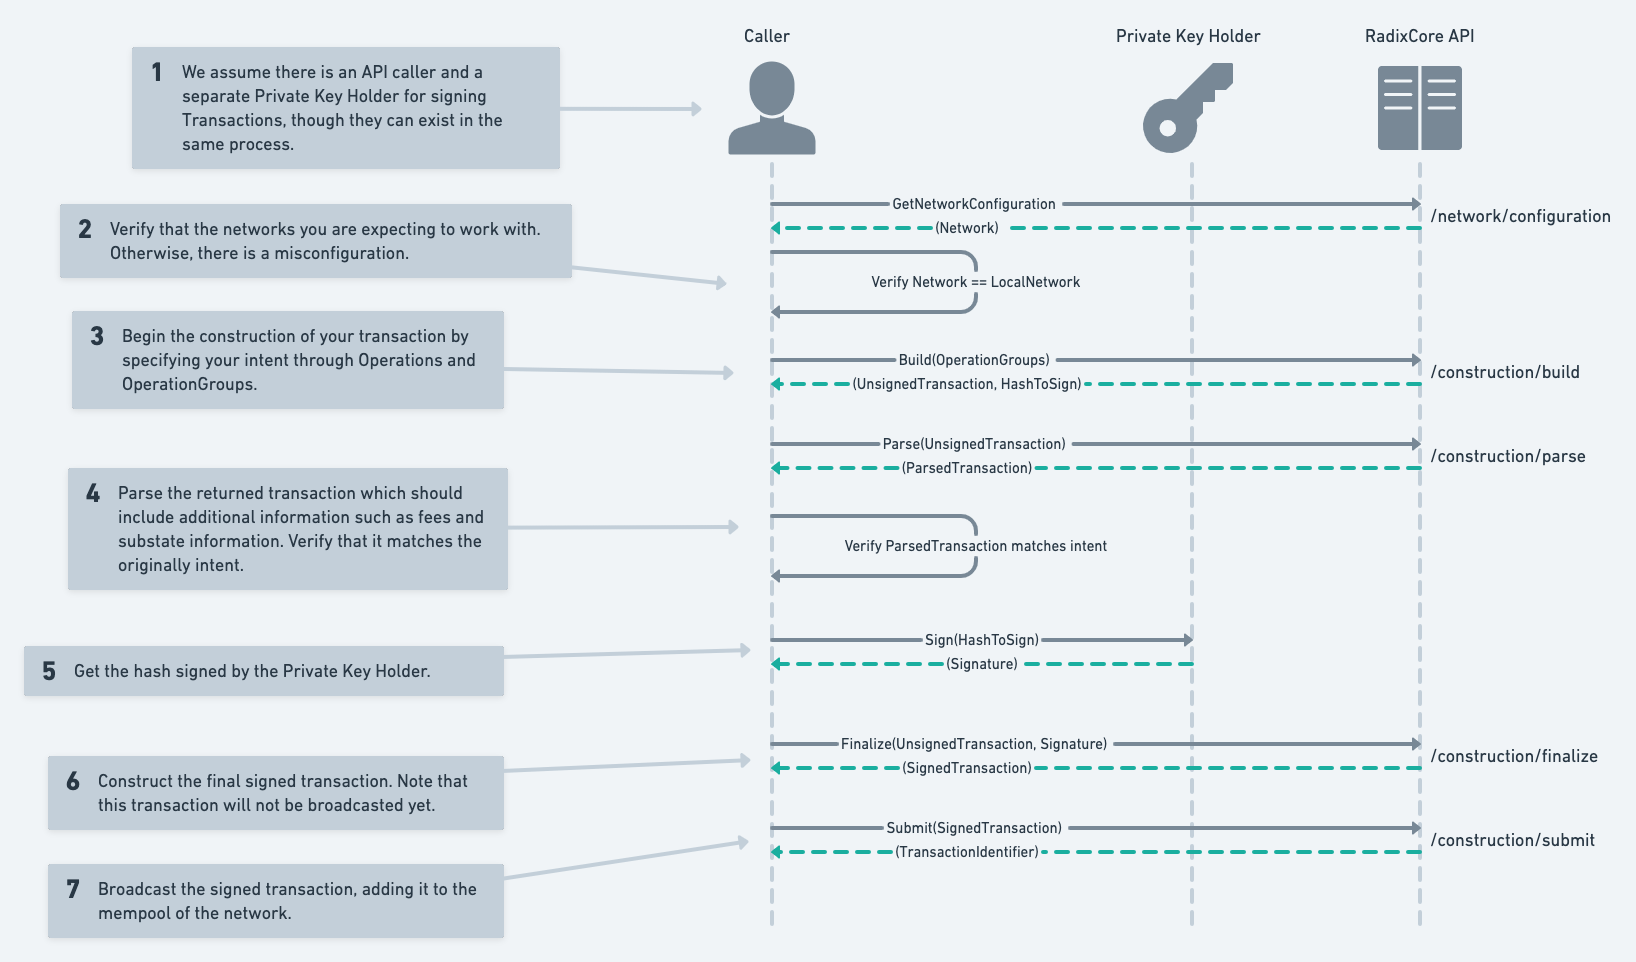
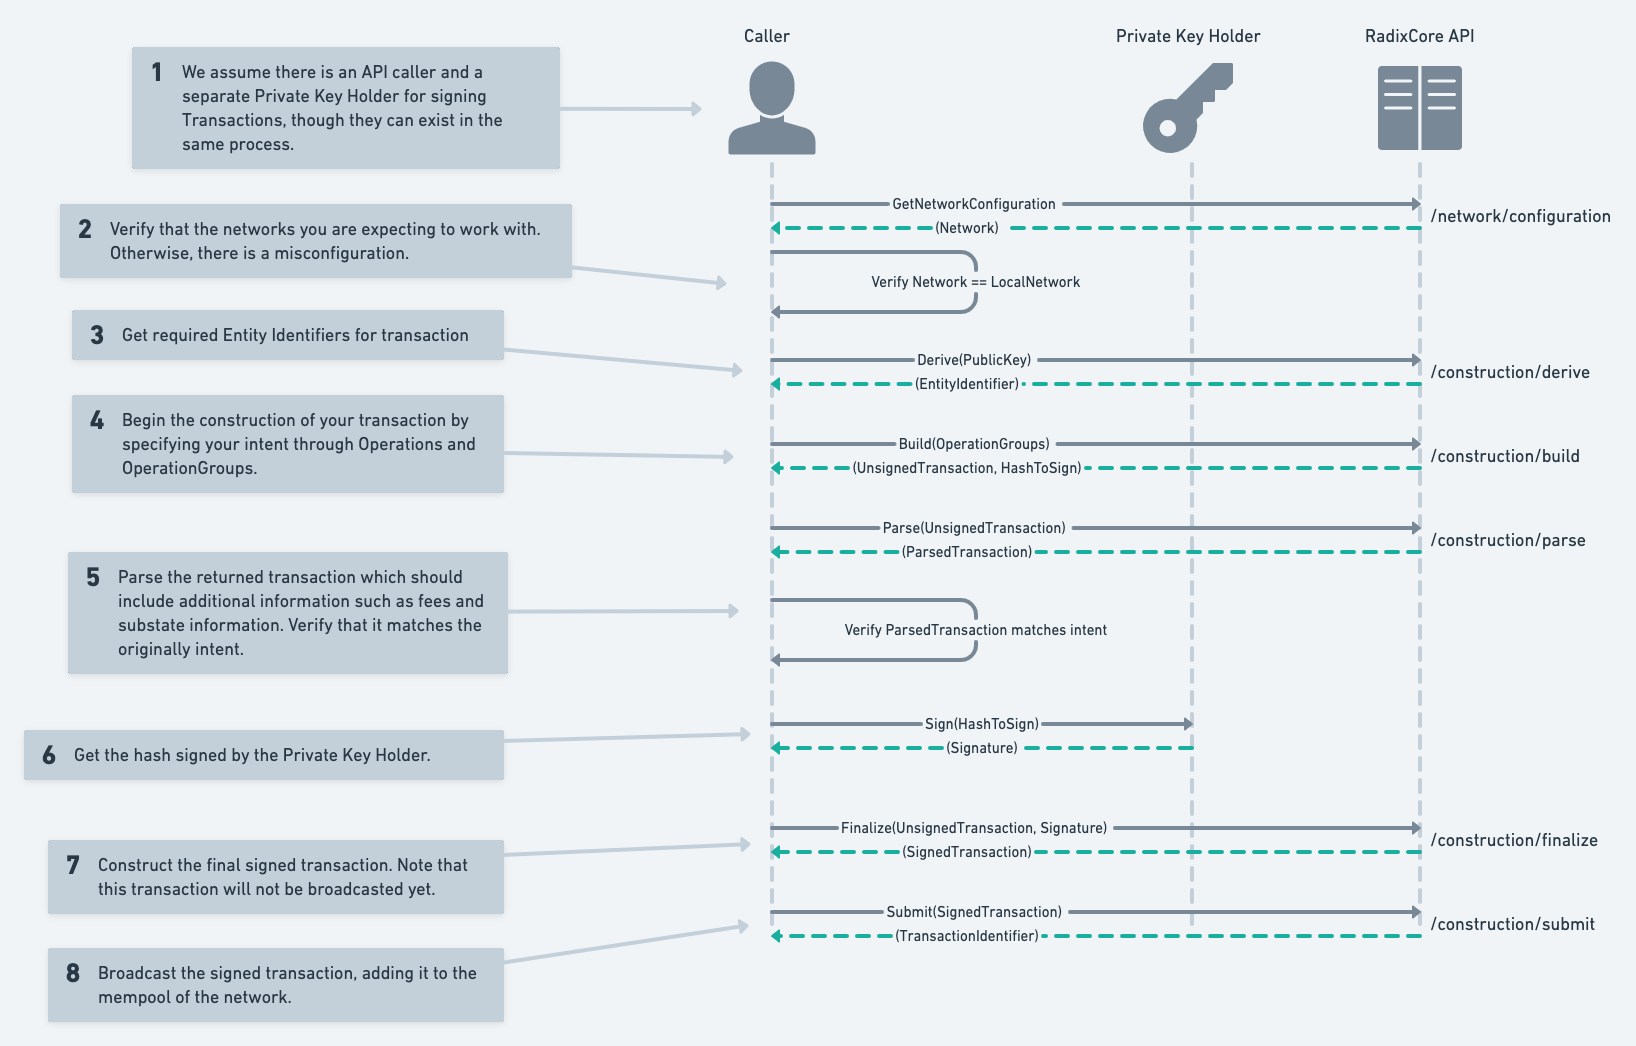
Implement derive endpoint

diff --git a/radixdlt-core/radixdlt/src/main/java/com/radixdlt/api/core/construction/DeriveRequest.java b/radixdlt-core/radixdlt/src/main/java/com/radixdlt/api/core/construction/DeriveRequest.java
@@ -63,30 +63,64 @@
 
 package com.radixdlt.api.core.construction;
 
-import com.google.inject.AbstractModule;
-import com.google.inject.multibindings.MapBinder;
-import io.undertow.server.HttpHandler;
+import com.radixdlt.api.archive.InvalidParametersException;
+import com.radixdlt.api.archive.JsonObjectReader;
+import com.radixdlt.crypto.ECPublicKey;
+import com.radixdlt.utils.Pair;
 
-import java.lang.annotation.Annotation;
+import java.util.Arrays;
 
-public final class ConstructionApiModule extends AbstractModule {
-	private final Class<? extends Annotation> annotationType;
-	private final String path;
+public class DeriveRequest {
+	enum EntityType {
+		ACCOUNT("Account"), VALIDATOR("Validator"), TOKEN("Token");
 
-	public ConstructionApiModule(Class<? extends Annotation> annotationType, String path) {
-		this.annotationType = annotationType;
-		this.path = path;
+		private final String name;
+		EntityType(String name) {
+			this.name = name;
+		}
+
+		static EntityType from(String type) {
+			return Arrays.stream(EntityType.values())
+				.filter(e -> e.name.equals(type))
+				.findFirst()
+				.orElseThrow();
+		}
 	}
 
-	@Override
-	protected void configure() {
-		var routeBinder = MapBinder.newMapBinder(
-			binder(), String.class, HttpHandler.class, annotationType
-		);
-		routeBinder.addBinding(path + "/derive").to(DeriveHandler.class);
-		routeBinder.addBinding(path + "/build").to(BuildTransactionHandler.class);
-		routeBinder.addBinding(path + "/parse").to(ParseTransactionHandler.class);
-		routeBinder.addBinding(path + "/finalize").to(FinalizeTransactionHandler.class);
-		routeBinder.addBinding(path + "/submit").to(SubmitTransactionHandler.class);
+	private final ECPublicKey publicKey;
+	private final EntityType entityType;
+	private final String symbol;
+
+	private DeriveRequest(ECPublicKey publicKey, EntityType entityType, String symbol) {
+		this.publicKey = publicKey;
+		this.entityType = entityType;
+		this.symbol = symbol;
+	}
+
+	public ECPublicKey getPublicKey() {
+		return publicKey;
+	}
+
+	public EntityType getEntityType() {
+		return entityType;
+	}
+
+	public String getSymbol() {
+		return symbol;
+	}
+
+	public static DeriveRequest from(JsonObjectReader reader) throws InvalidParametersException {
+		var publicKey = reader.getJsonObject("public_key", r -> r.getPubKey("hex"));
+		var typeAndSymbol = reader.<Pair<EntityType, String>>getJsonObject("metadata", r -> {
+			var typeString = r.getString("type");
+			var type = EntityType.from(typeString);
+			if (type != EntityType.TOKEN) {
+				return Pair.of(type, null);
+			} else {
+				return Pair.of(type, r.getString("symbol"));
+			}
+		});
+
+		return new DeriveRequest(publicKey, typeAndSymbol.getFirst(), typeAndSymbol.getSecond());
 	}
 }

diff --git a/radixdlt-core/radixdlt/src/main/java/com/radixdlt/api/core/construction/DeriveHandler.java b/radixdlt-core/radixdlt/src/main/java/com/radixdlt/api/core/construction/DeriveHandler.java
@@ -63,30 +63,48 @@
 
 package com.radixdlt.api.core.construction;
 
-import com.google.inject.AbstractModule;
-import com.google.inject.multibindings.MapBinder;
-import io.undertow.server.HttpHandler;
+import com.google.inject.Inject;
+import com.radixdlt.api.archive.ApiHandler;
+import com.radixdlt.api.archive.InvalidParametersException;
+import com.radixdlt.api.archive.JsonObjectReader;
+import com.radixdlt.identifiers.REAddr;
+import com.radixdlt.networks.Addressing;
+import org.json.JSONObject;
 
-import java.lang.annotation.Annotation;
+public class DeriveHandler implements ApiHandler<DeriveRequest> {
+	private final Addressing addressing;
 
-public final class ConstructionApiModule extends AbstractModule {
-	private final Class<? extends Annotation> annotationType;
-	private final String path;
-
-	public ConstructionApiModule(Class<? extends Annotation> annotationType, String path) {
-		this.annotationType = annotationType;
-		this.path = path;
+	@Inject
+	DeriveHandler(Addressing addressing) {
+		this.addressing = addressing;
 	}
 
 	@Override
-	protected void configure() {
-		var routeBinder = MapBinder.newMapBinder(
-			binder(), String.class, HttpHandler.class, annotationType
-		);
-		routeBinder.addBinding(path + "/derive").to(DeriveHandler.class);
-		routeBinder.addBinding(path + "/build").to(BuildTransactionHandler.class);
-		routeBinder.addBinding(path + "/parse").to(ParseTransactionHandler.class);
-		routeBinder.addBinding(path + "/finalize").to(FinalizeTransactionHandler.class);
-		routeBinder.addBinding(path + "/submit").to(SubmitTransactionHandler.class);
+	public DeriveRequest parseRequest(JsonObjectReader requestReader) throws InvalidParametersException {
+		return DeriveRequest.from(requestReader);
+	}
+
+	@Override
+	public JSONObject handleRequest(DeriveRequest request) throws Exception {
+		if (request.getEntityType() == DeriveRequest.EntityType.ACCOUNT) {
+			var reAddr = REAddr.ofPubKeyAccount(request.getPublicKey());
+			return new JSONObject()
+				.put("entity_identifier", new JSONObject()
+					.put("address", addressing.forAccounts().of(reAddr))
+				);
+		} else if (request.getEntityType() == DeriveRequest.EntityType.VALIDATOR) {
+			return new JSONObject()
+				.put("entity_identifier", new JSONObject()
+					.put("address", addressing.forValidators().of(request.getPublicKey()))
+				);
+		} else if (request.getEntityType() == DeriveRequest.EntityType.TOKEN) {
+			var reAddr = REAddr.ofHashedKey(request.getPublicKey(), request.getSymbol());
+			return new JSONObject()
+				.put("entity_identifier", new JSONObject()
+					.put("address", addressing.forResources().of(request.getSymbol(), reAddr))
+				);
+		} else {
+			throw new IllegalStateException();
+		}
 	}
 }
